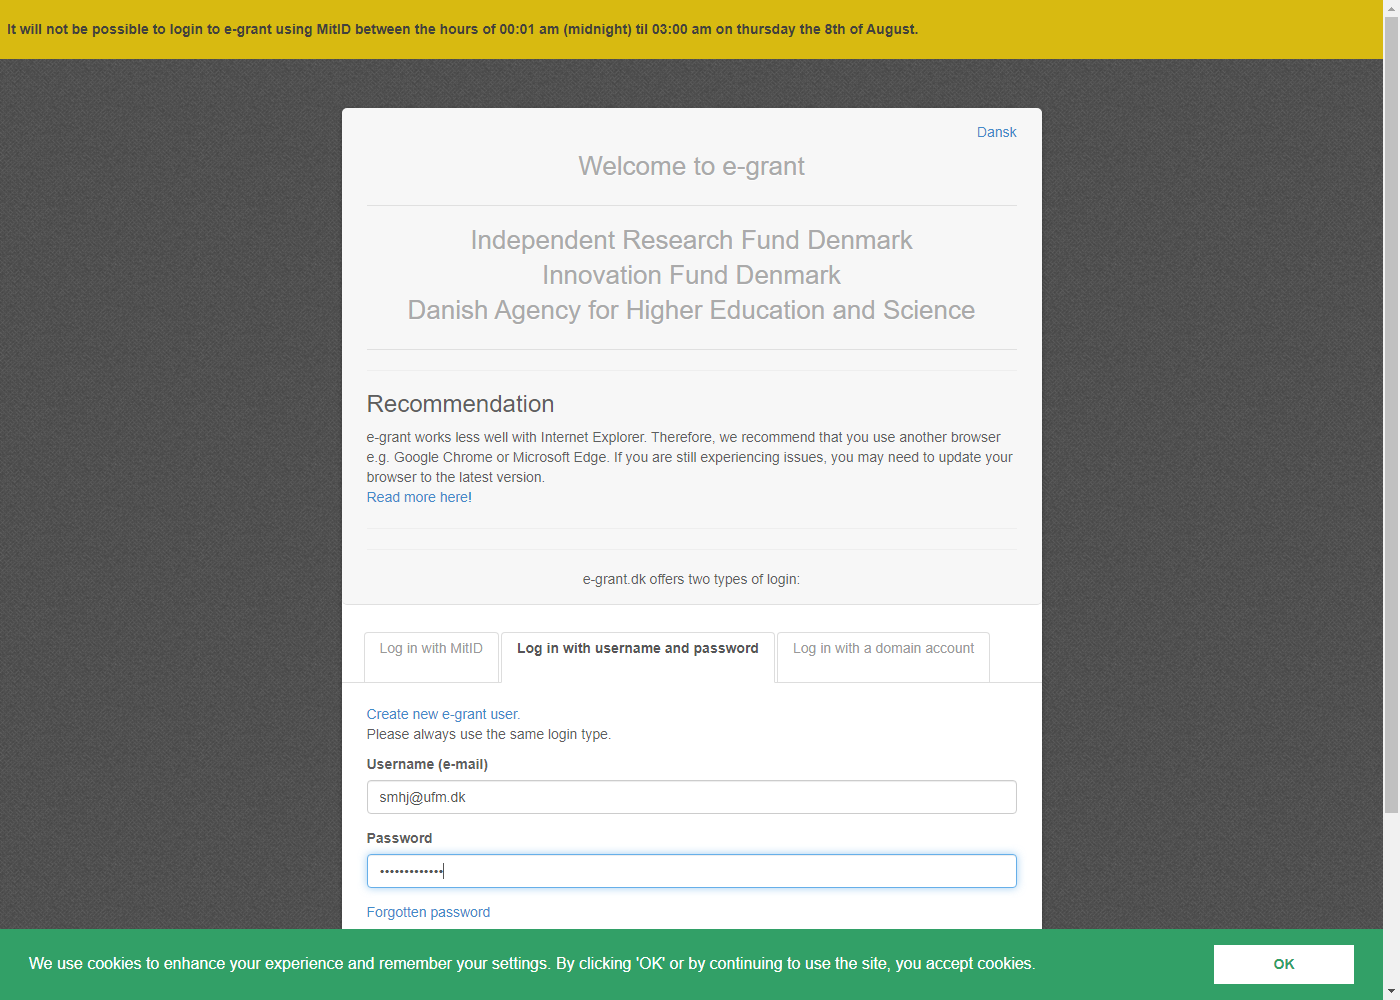
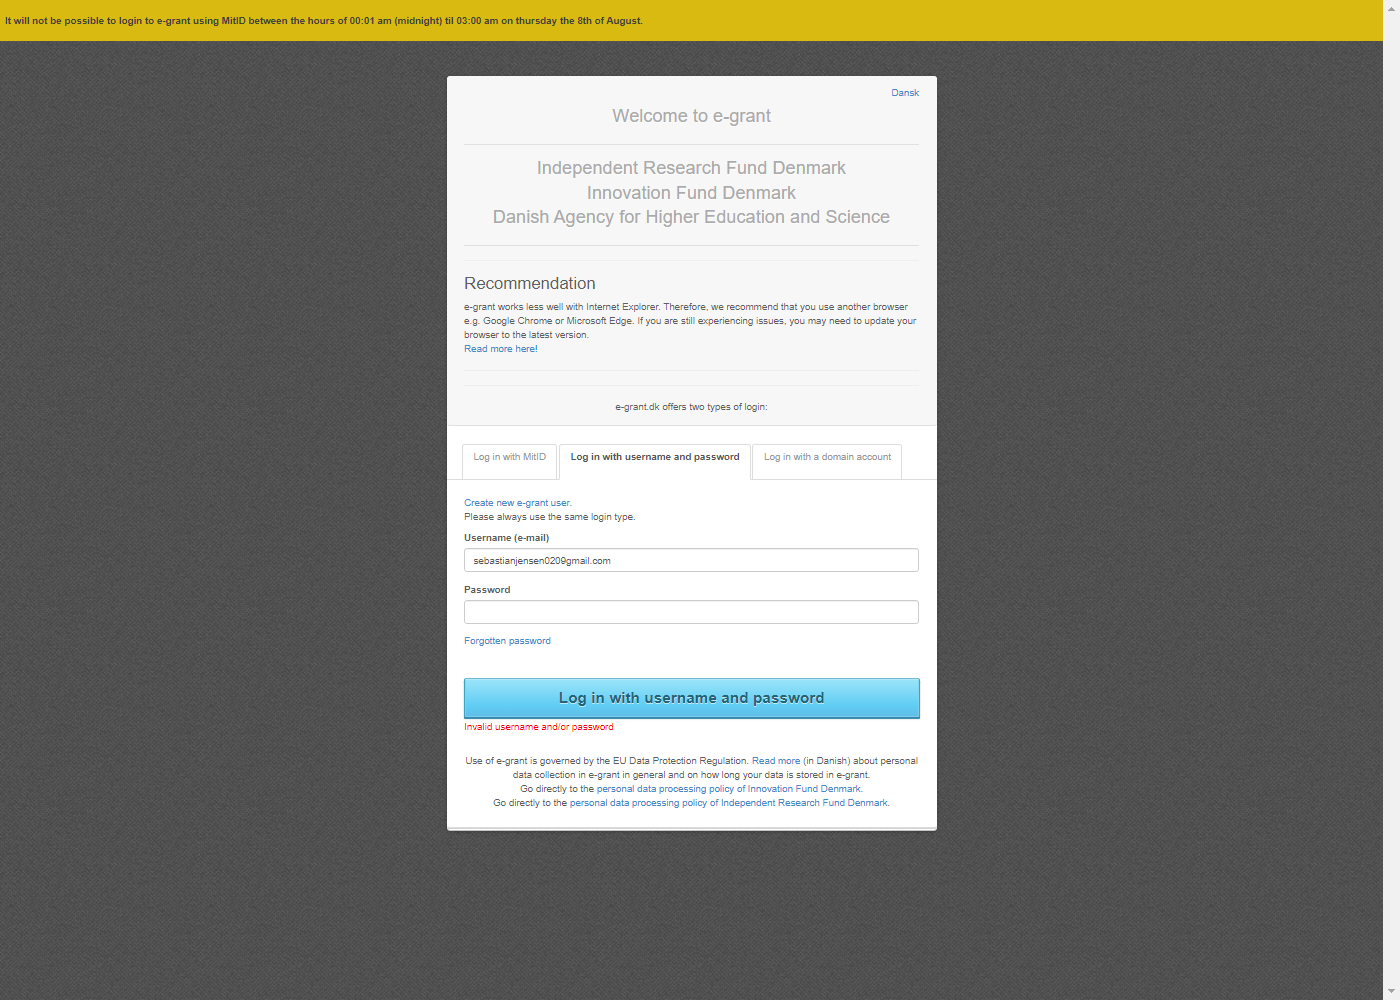
it can input login information

diff --git a/locustfile.py b/locustfile.py
@@ -16,8 +16,9 @@ class UserBehavior(User):
     def on_start(self):
         self.driver = self.initialize_webdriver()
         self.driver.set_window_size(1400, 1000)
+        self.set_zoom_level(0.1)
         self.driver.implicitly_wait(5)
-
+        
     def on_stop(self):
         self.driver.quit()
 
@@ -46,24 +47,46 @@ class UserBehavior(User):
         wait = WebDriverWait(self.driver, 5)
         login_button = wait.until(EC.element_to_be_clickable((By.CSS_SELECTOR, "#ContentDiv > div:nth-child(3) > div > div.ng-isolate-scope > ul > li:nth-child(2) > a")))
         login_button.click()
-        self.take_screenshot("LoginPane.png")
+        self.take_screenshot("1. LoginPane.png")
 
     def perform_login(self):
         wait = WebDriverWait(self.driver, 5)
 
         username_input = wait.until(EC.presence_of_element_located((By.ID, 'txt_UserName')))
-        username_input.send_keys('smhj@ufm.dk')
+        username_input.send_keys('sebastianjensen0209@gmail.com')
 
         password_input = wait.until(EC.presence_of_element_located((By.ID, 'txt_Password')))
-        password_input.send_keys('Confirm922222')
+        password_input.send_keys('Sebber0209')
 
-        self.take_screenshot("ErDerINformationer.png")
+        self.driver.execute_script("window.scrollTo(0, document.body.scrollHeight);")
 
+        self.take_screenshot("2. ErDerINformationer.png")
+        
+        password_input.send_keys(Keys.RETURN)
+
+        self.driver.execute_script("window.scrollTo(0, document.body.scrollHeight);")
+        self.take_screenshot("3. blev der logget ind?.png")
+
+        '''
+        print("login button touch ting")
+        #login_button = wait.until(EC.element_to_be_clickable((By.XPATH, "//input[@id='btn_GotLoginUsernamePassword']")))
+        login_button = wait.until(EC.element_to_be_clickable((By.ID, 'btn_GotLoginUsernamePassword')))
+        
+        print("find ting")
+        login_button.click()
+        print("fandt ting")
+        self.take_screenshot("3. blev der logget ind?.png")
+        
+        '''
         
     def check_login_success(self):
         wait = WebDriverWait(self.driver, 10)
+        self.take_screenshot("er vi logget ind?.png")
+        self.set_zoom_level(0.9)
+        self.driver.execute_script("window.scrollTo(0, document.body.scrollHeight);")
+
         try:
-            welcome_message = wait.until(EC.presence_of_element_located((By.XPATH, "//*[contains(text(), 'Velkommen til e-grant.dk')]")))
+            welcome_message = wait.until(EC.presence_of_element_located((By.XPATH, "//*[contains(text(), 'Welcome to e-grant.dk')]")))
             if welcome_message:
                 print("Login successful")
             else:
@@ -74,6 +97,9 @@ class UserBehavior(User):
 
     def take_screenshot(self, filename):
         self.driver.save_screenshot(filename)
+
+    def set_zoom_level(self, zoom_factor):
+        self.driver.execute_script(f"document.body.style.zoom='{zoom_factor}'")
 
     @task
     def login(self):
